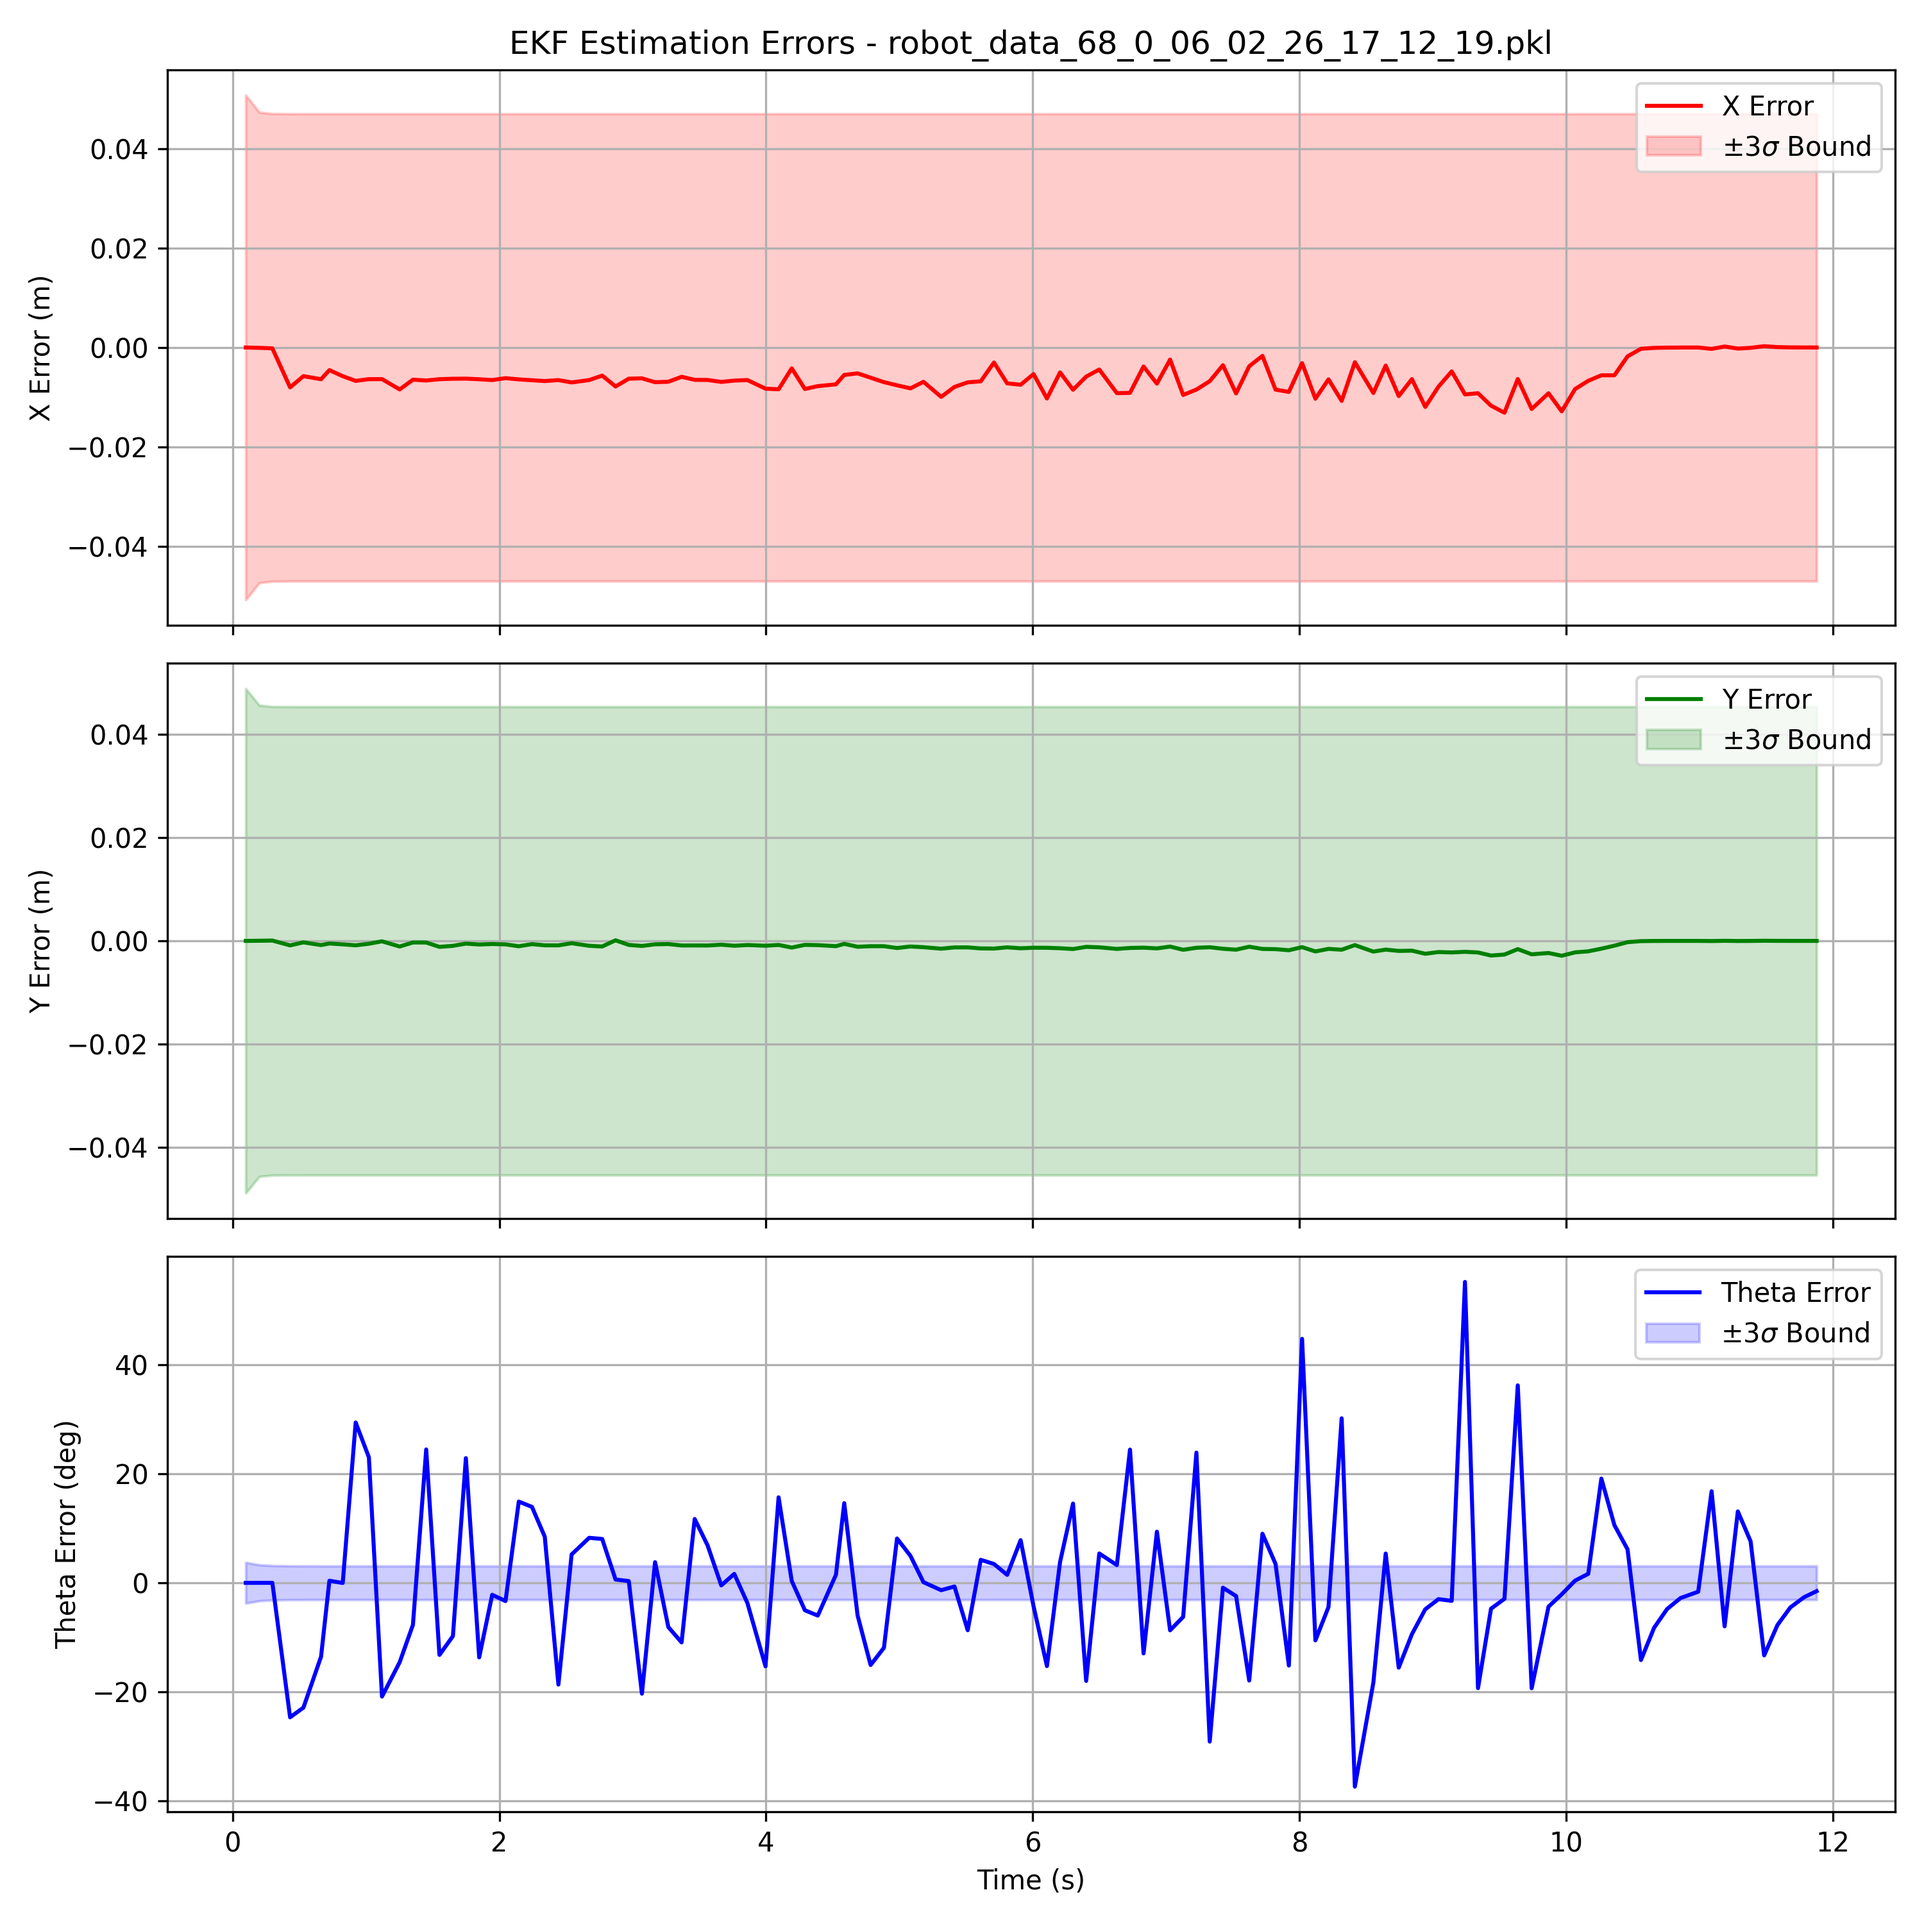
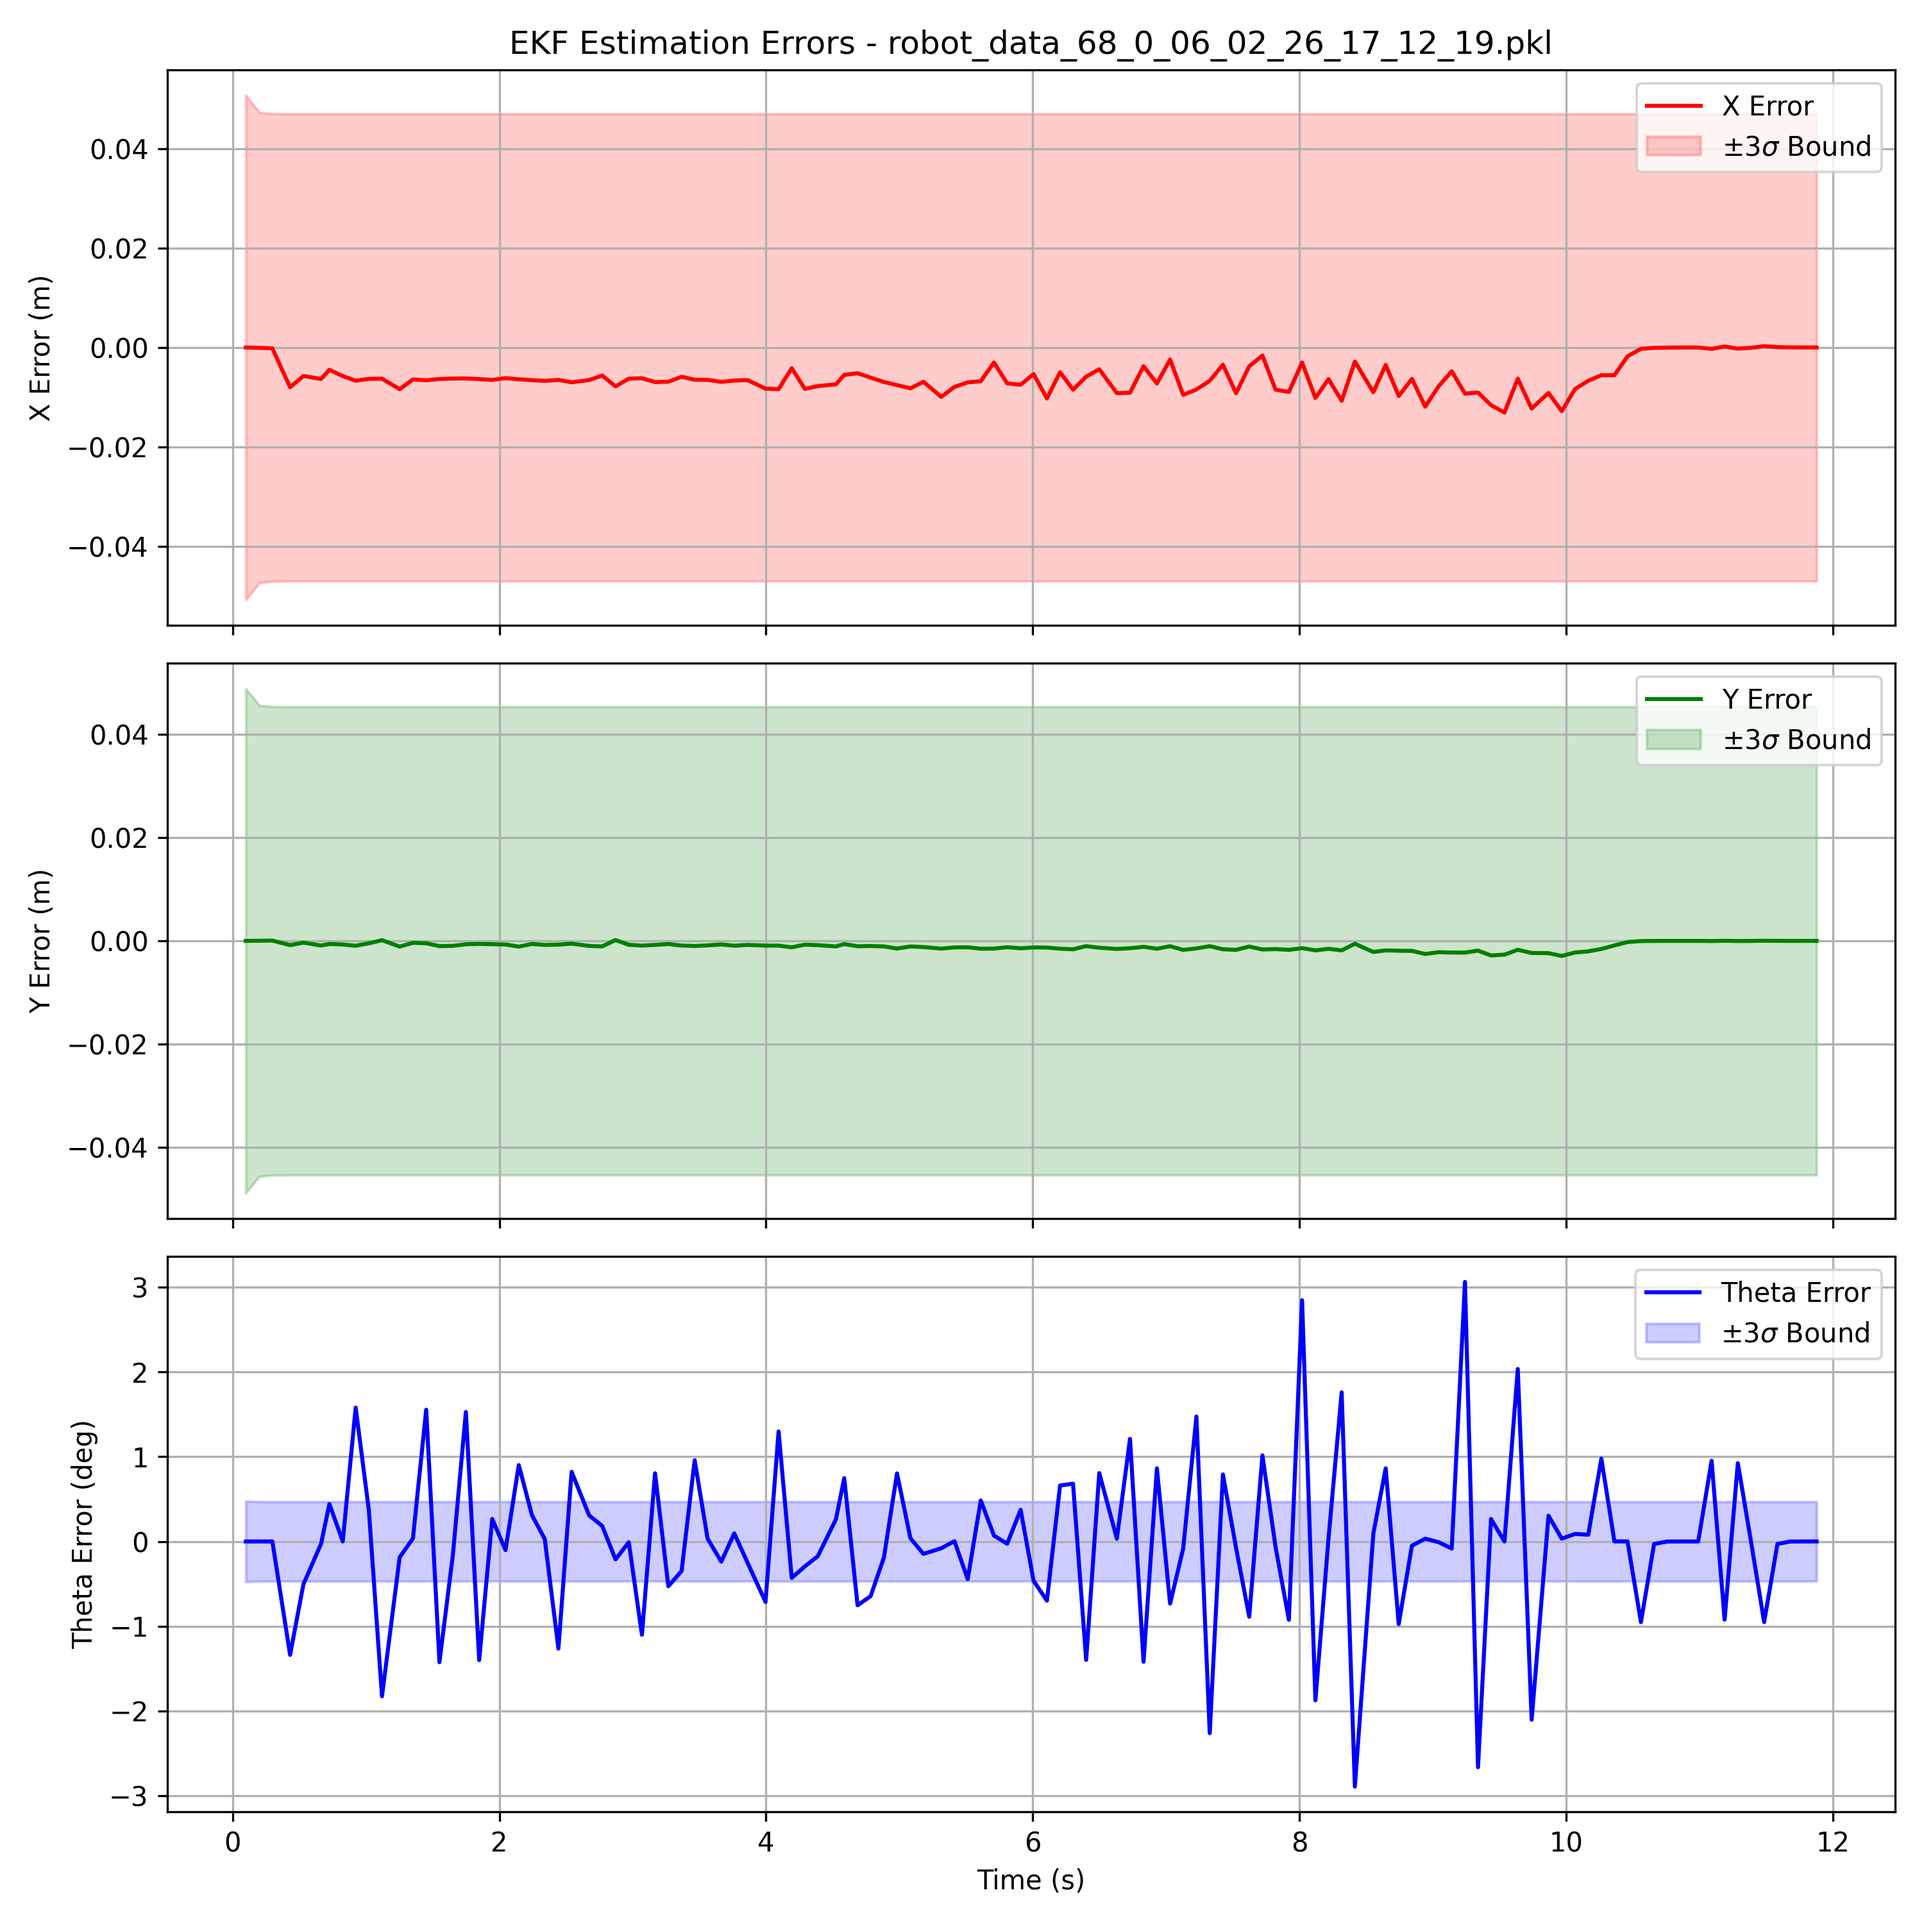
updated

diff --git a/base_code_lab_03/robot_python_code/bad_initial_guess.py b/base_code_lab_03/robot_python_code/bad_initial_guess.py
@@ -1,0 +1,133 @@
+import numpy as np
+import matplotlib.pyplot as plt
+import math
+import os
+
+import data_handling
+from extended_kalman_filter import ExtendedKalmanFilter
+
+def normalize_angle(angle):
+    return (angle + math.pi) % (2 * math.pi) - math.pi
+
+def run_unknown_start_test(filename):
+    print(f"Testing Initial Conditions on: {os.path.basename(filename)}")
+    ekf_data = data_handling.get_file_data_for_kf(filename)
+
+    true_x0 = ekf_data[0][3][0]
+    true_y0 = ekf_data[0][3][1]
+    true_theta0 = ekf_data[0][3][5]
+    encoder_counts_0 = ekf_data[0][2].encoder_counts
+    
+    # 1. Define Initialization Scenarios
+    test_cases = {
+        "Known Start (Truth)": {
+            "x_0": np.array([true_x0, true_y0, true_theta0]), 
+            "Sigma_0": np.diag([0.001, 0.001, 0.001]),
+            "color": 'blue'
+        },
+        "Small Offset": {
+            "x_0": np.array([true_x0 + 0.3, true_y0 - 0.3, true_theta0 + 0.5]), 
+            "Sigma_0": np.diag([0.5, 0.5, 0.5]),
+            "color": 'green'
+        },
+        "Large Offset": {
+            "x_0": np.array([true_x0 - 1.0, true_y0 + 1.0, true_theta0 - 1.5]), 
+            "Sigma_0": np.diag([2.0, 2.0, 2.0]),
+            "color": 'orange'
+        },
+        "Very Bad Guess (Opposite & Far)": {
+            "x_0": np.array([true_x0 + 3.0, true_y0 - 2.0, true_theta0 + 3.14]), 
+            "Sigma_0": np.diag([10.0, 10.0, 10.0]), # Massive uncertainty accommodates bad guess
+            "color": 'red'
+        }
+    }
+
+    results = {}
+    
+    # 2. Run EKF for each scenario
+    for case_name, params in test_cases.items():
+        ekf = ExtendedKalmanFilter(params["x_0"], params["Sigma_0"], encoder_counts_0)
+        
+        times, est_x, est_y, est_th = [], [], [], []
+        
+        for t in range(1, len(ekf_data)):
+            row = ekf_data[t]
+            current_time = row[0]
+            delta_t = current_time - ekf_data[t-1][0]
+            
+            if delta_t <= 0: continue
+                
+            u_t = np.array([row[2].encoder_counts, row[2].steering]) 
+            raw_z = np.array([row[3][0], row[3][1], row[3][5]])
+            
+            if np.isnan(raw_z).any() or raw_z is None or np.allclose(raw_z, [0.0, 0.0, 0.0]):
+                z_t = None
+            else:
+                z_t = raw_z
+                
+            ekf.update(u_t, z_t, delta_t)
+            
+            times.append(current_time)
+            est_x.append(ekf.state_mean[0])
+            est_y.append(ekf.state_mean[1])
+            est_th.append(ekf.state_mean[2])
+            
+        results[case_name] = {
+            'times': times, 'x': est_x, 'y': est_y, 'theta': est_th, 'color': params["color"]
+        }
+
+    # 3. Extract Ground Truth
+    gt_times, gt_x, gt_y, gt_th = [], [], [], []
+    for t in range(1, len(ekf_data)):
+        row = ekf_data[t]
+        raw_z = np.array([row[3][0], row[3][1], row[3][5]])
+        gt_times.append(row[0])
+        gt_x.append(raw_z[0])
+        gt_y.append(raw_z[1])
+        gt_th.append(raw_z[2])
+
+    # 4. Plotting
+    fig = plt.figure(figsize=(12, 14))
+    
+    # Top Panel: Trajectory Map
+    ax_traj = plt.subplot(4, 1, 1)
+    ax_traj.plot(gt_x, gt_y, 'k--', alpha=0.6, linewidth=2, label='Ground Truth')
+    
+    for case_name, data in results.items():
+        ax_traj.plot(data['x'], data['y'], color=data['color'], alpha=0.7, linewidth=2, label=case_name)
+        # Mark the starting guess
+        ax_traj.plot(data['x'][0], data['y'][0], color=data['color'], marker='X', markersize=10)
+        
+    ax_traj.set_title("Trajectory Convergence from Unknown Starts")
+    ax_traj.set_xlabel("X Position (m)")
+    ax_traj.set_ylabel("Y Position (m)")
+    ax_traj.legend()
+    ax_traj.axis('equal')
+    ax_traj.grid(True)
+
+    # Bottom Panels: Error over time
+    axes = [plt.subplot(4, 1, 2), plt.subplot(4, 1, 3), plt.subplot(4, 1, 4)]
+    ylabels = ['X Error (m)', 'Y Error (m)', 'Theta Error (deg)']
+    
+    for case_name, data in results.items():
+        err_x = np.array(data['x']) - np.array(gt_x)
+        err_y = np.array(data['y']) - np.array(gt_y)
+        err_th = [math.degrees(normalize_angle(data['theta'][i] - gt_th[i])) for i in range(len(gt_th))]
+        
+        axes[0].plot(data['times'], err_x, color=data['color'], alpha=0.8)
+        axes[1].plot(data['times'], err_y, color=data['color'], alpha=0.8)
+        axes[2].plot(data['times'], err_th, color=data['color'], alpha=0.8)
+
+    for ax, label in zip(axes, ylabels):
+        ax.set_ylabel(label)
+        ax.grid(True)
+        # Zoom in on the Y-axis to see the steady-state after the initial massive spike
+        ax.set_ylim(-0.5, 0.5) if 'deg' not in label else ax.set_ylim(-30, 30)
+        
+    axes[2].set_xlabel('Time (s)')
+    plt.tight_layout()
+    plt.show()
+
+if __name__ == "__main__":
+    DATA_FILE = './data/robot_data_68_0_06_02_26_17_12_19.pkl'
+    run_unknown_start_test(DATA_FILE)

diff --git a/base_code_lab_03/robot_python_code/calibrate_intrinsic.py b/base_code_lab_03/robot_python_code/calibrate_intrinsic.py
@@ -108,8 +108,8 @@ def live_calibrate_camera(rows, cols, square_size, camera_index=0):
 
 if __name__ == "__main__":
     # USER CONFIGURATION
-    CHESSBOARD_COLS = 9 
-    CHESSBOARD_ROWS = 6 
+    CHESSBOARD_COLS = 10
+    CHESSBOARD_ROWS = 7
     SQUARE_SIZE_METERS = 0.025 
     CAMERA_ID = 0
 
